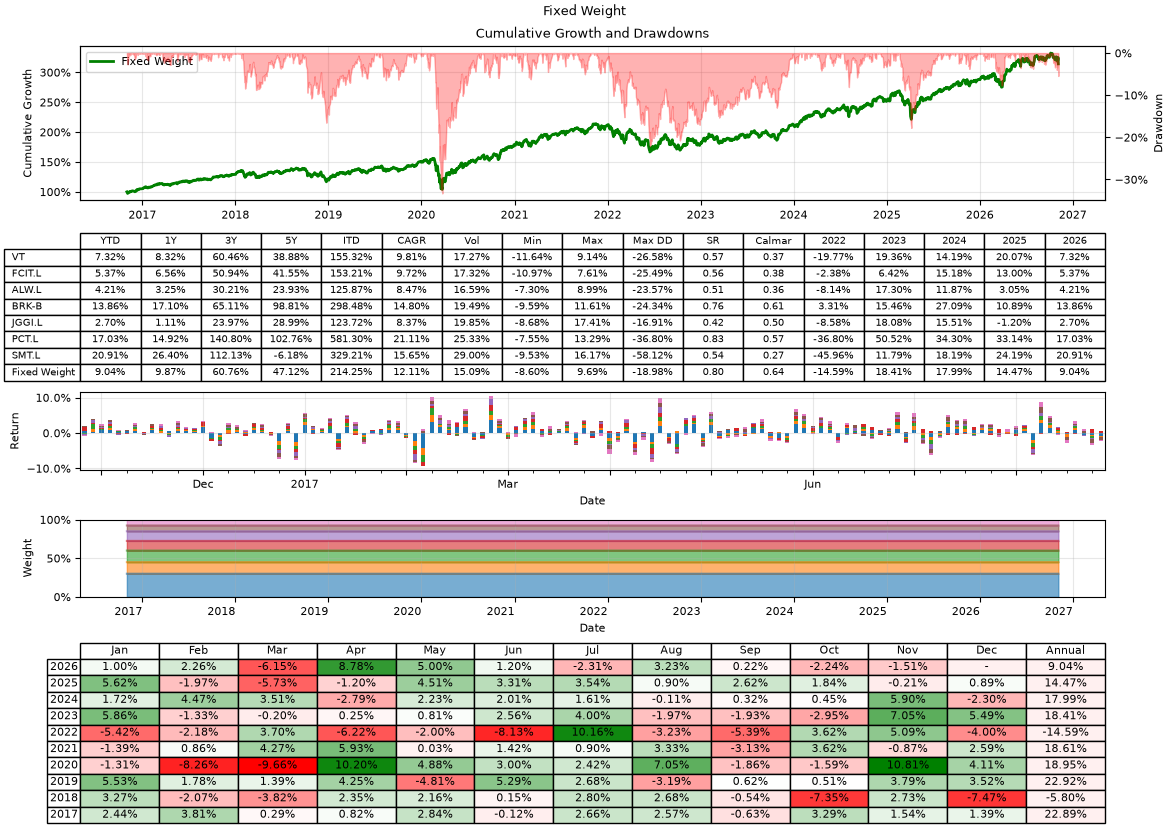
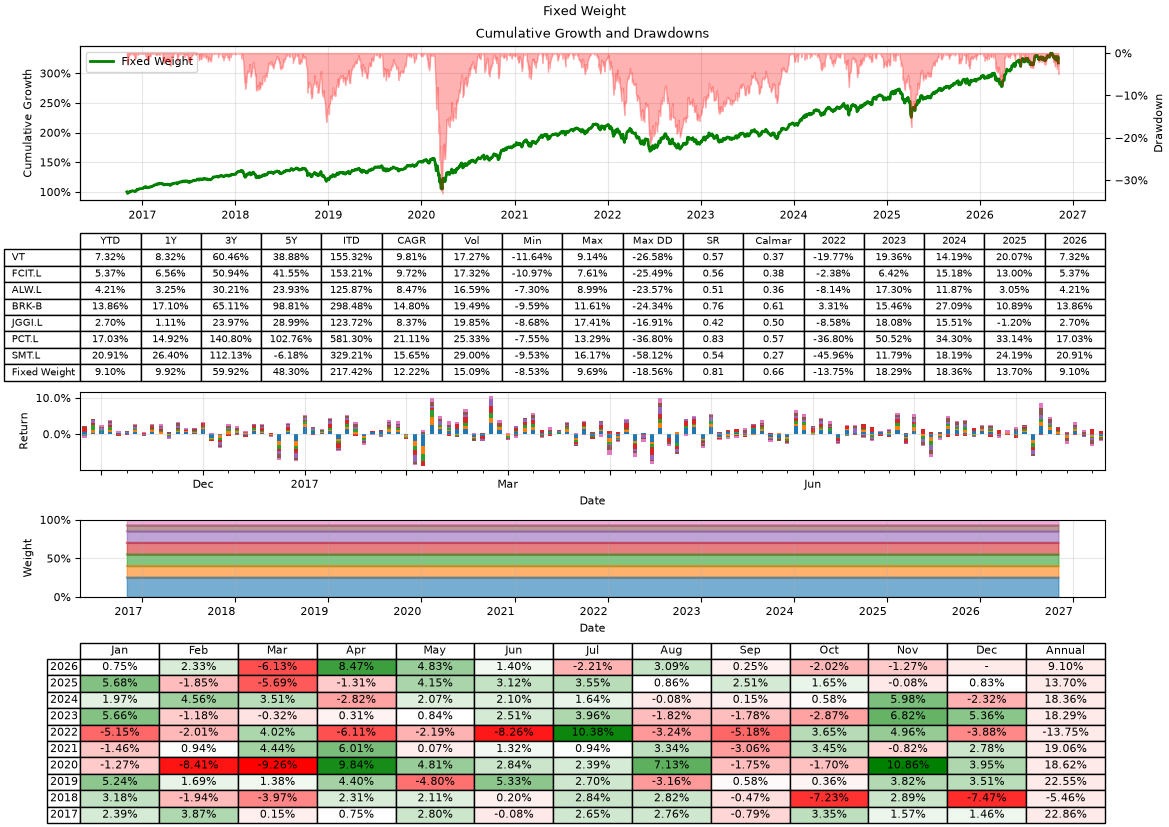
tilt towards brk

diff --git a/src/pypension/main.py b/src/pypension/main.py
@@ -20,12 +20,12 @@ def main() -> None:
     # define fixed weight portfolio
     weights: dict[str, float] = {
         # index
-        "VT": 0.30,
+        "VT": 0.25,
         "FCIT.L": 0.15,
         "ALW.L": 0.15,
         # active
-        "BRK-B": 0.125,
-        "JGGI.L": 0.125,
+        "BRK-B": 0.15,
+        "JGGI.L": 0.15,
         # tech
         "PCT.L": 0.075,
         "SMT.L": 0.075,

diff --git a/src/pypension/config.py b/src/pypension/config.py
@@ -29,6 +29,10 @@ TICKERS = [
     "IGET.L",  # Invesco Global Equity Income Trust ord
     "CHSPI.SW",  # iShares Core SPI ETF (CH) (CHSPI.SW)
     "ELM",  # Elm Market Navigator ETF
+    "CTY.L",  # City of London Ord
+    "LWDB.L",  # Law Debenture Corporation plc Ord 5P
+    "TMPL.L",  # Temple Bar Investment Trust PLC
+    "MRCH.L",  # The Merchants Trust PLC
 ]
 
 TIME_ZONE = ZoneInfo("UTC")
